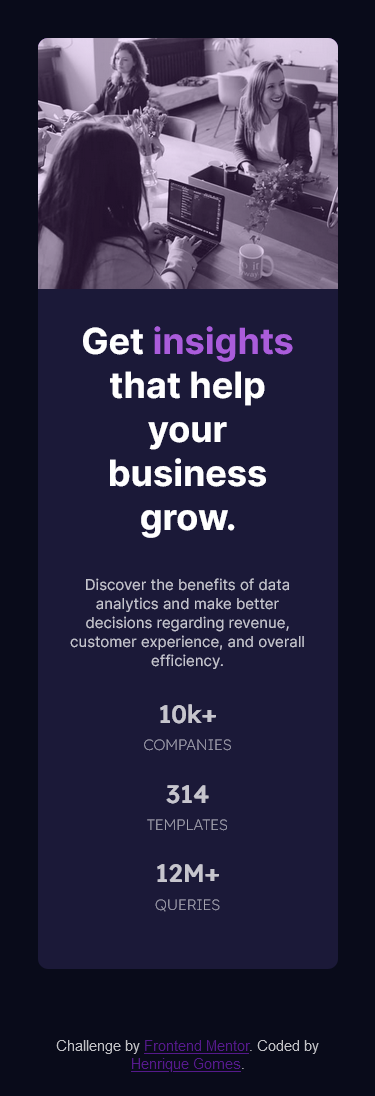
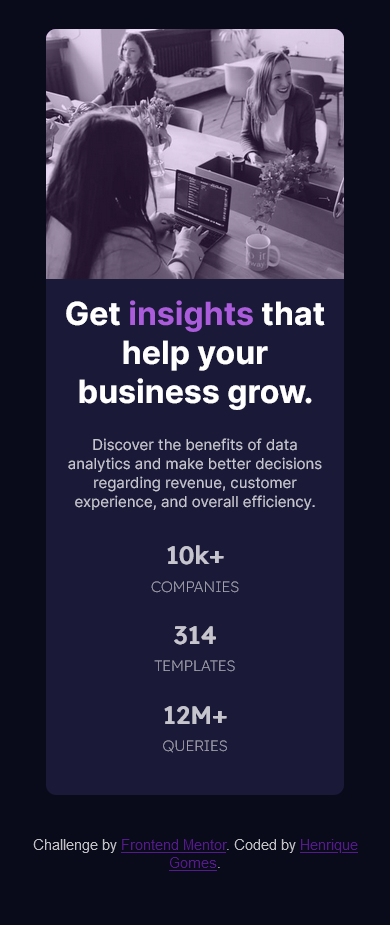
responsivity fix

Changed region(s): [[0.088, 0.0303, 0.9093, 0.9989]]

diff --git a/01. [html-css] Stats Preview Card Component/css/style.css b/01. [html-css] Stats Preview Card Component/css/style.css
@@ -11,20 +11,24 @@ body {
     background-color: hsl(233, 47%, 7%);
     font-size: 15px;
     overflow-x: hidden;
+    padding: 7.5%;
 }
 
 /* Card content */
 .container {
+    max-width: 90%;
+    max-height: 90%;
     background-color: hsl(244, 38%, 16%);
     color: hsla(0, 0%, 100%, 0.75);
     border-radius: 10px;
     display: flex;
     justify-content: space-between;
-    margin: 5.5em 8em 5.5em 8em;
+    margin: 0 auto;
 }
 
 .card {
-    padding: 4em;
+    max-width: 50%;
+    padding: 64px;
     color: hsla(0, 0%, 100%, 0.75);
     font-family: 'Inter', sans-serif;
     font-weight: 400;
@@ -32,9 +36,9 @@ body {
 
 .card-title {
     color: hsl(0, 0%, 100%);
-    margin-bottom: 1em;
+    margin-bottom: 24px;
     font-family: 'Inter', sans-serif;
-    font-size: 2.4em;
+    font-size: 32px;
     font-weight: 700;
 }
 
@@ -66,6 +70,7 @@ body {
 }
 
 .card-img img {
+    max-width: 100%;
     height: 100%;
     opacity: 0.8;
     border-top-right-radius: 10px;
@@ -74,6 +79,8 @@ body {
 
 /* Footer */
 footer {
+    margin-top: 40px;
+    margin-bottom: -45px;
     text-align: center;
     color: hsla(0, 0%, 100%, 0.75);
 }
@@ -90,8 +97,9 @@ footer a:hover {
     }
 
     .card {
-        text-align: center;
-        padding: 2em;
+    max-width: 100%;
+    text-align: center;
+    padding: 1em;
     }
 
     .card-results {

diff --git a/01. [html-css] Stats Preview Card Component/index.html b/01. [html-css] Stats Preview Card Component/index.html
@@ -36,8 +36,12 @@
       </div>
 
       <div class="card-img">
-          <img src="images/image-header-desktop.jpg" alt="image" width="500" height="460">
+        <picture>
+          <source srcset="images/image-header-mobile.jpg" media="max-width: 375px">
+          <img src="images/image-header-desktop.jpg" width="500" height="460">
+        </picture>
       </div>
+      
     </section>
   </main>
 

diff --git a/01. [html-css] Stats Preview Card Component/README.md b/01. [html-css] Stats Preview Card Component/README.md
@@ -61,6 +61,36 @@ In this project, I learned about how to positioning elements with Flexbox, using
   }
 }
 ```
+___
+
+I learned how to use the tag ```<picture>``` to change the images according to the screen size.
+~~~html
+<div class="card-img">
+  <picture>
+    <source src="images/image-header-mobile.jpg" media="max-width: 375px">
+    <img src="images/image-header-desktop.jpg" width="500" height="460">
+  </picture>
+</div>
+~~~
+
+___
+
+To separate a container from the body, add some padding and don't use "em" as a metric to it, because it won't be resposive, it will be fixed according to the font-size, so, I used percentage.
+
+~~~css
+body {
+    background-color: hsl(233, 47%, 7%);
+    font-size: 15px;
+    overflow-x: hidden;
+    padding: 7.5%;
+}
+~~~
+
+___
+
+- Use ```max-width``` to control the size of your boxes;
+- Don't use "image" in the ```alt``` of the image tags, the screen readers know that it is a image;
+- If the image is just decorative, doesn't need add a ```alt``` in the image tag.
 
 ### Continued development
 
@@ -72,8 +102,10 @@ In this project, I learned about how to positioning elements with Flexbox, using
 
 ### Useful resources
 
-- [MDN - Basics of Flexbox](https://developer.mozilla.org/pt-BR/docs/Web/CSS/CSS_Flexible_Box_Layout/Basic_Concepts_of_Flexbox) - This helped me to learn how Flexbox works.
-- [MDN Web Docs](https://developer.mozilla.org/pt-BR/) - I used this site to research HTML tags, CSS properties and Flexbox.
+- [MDN - Web Docs](https://developer.mozilla.org/pt-BR/) - I used this site to research HTML tags, CSS properties and Flexbox;
+- [MDN - Basics of Flexbox](https://developer.mozilla.org/pt-BR/docs/Web/CSS/CSS_Flexible_Box_Layout/Basic_Concepts_of_Flexbox) - This helped me to learn how Flexbox works;
+- [MDN - Picture element](https://developer.mozilla.org/en-US/docs/Web/HTML/Element/picture) - This will be helpful to learn how to use the `<picture>` tag.
+- [MDN - CSS Units](https://developer.mozilla.org/en-US/docs/Learn/CSS/Building_blocks/Values_and_units) - This is important to understand what unit use to define some element size.
 
 ## Author
 
